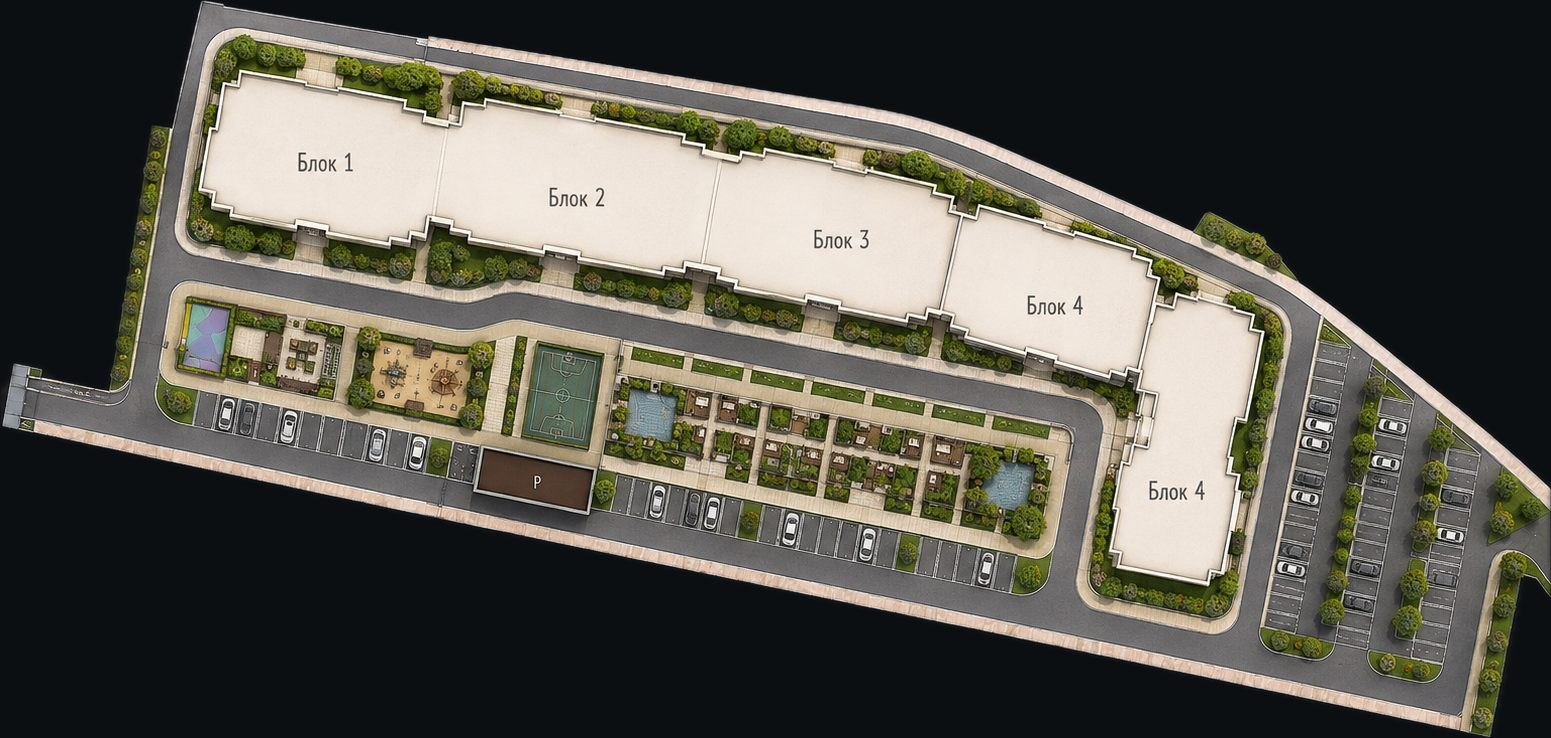
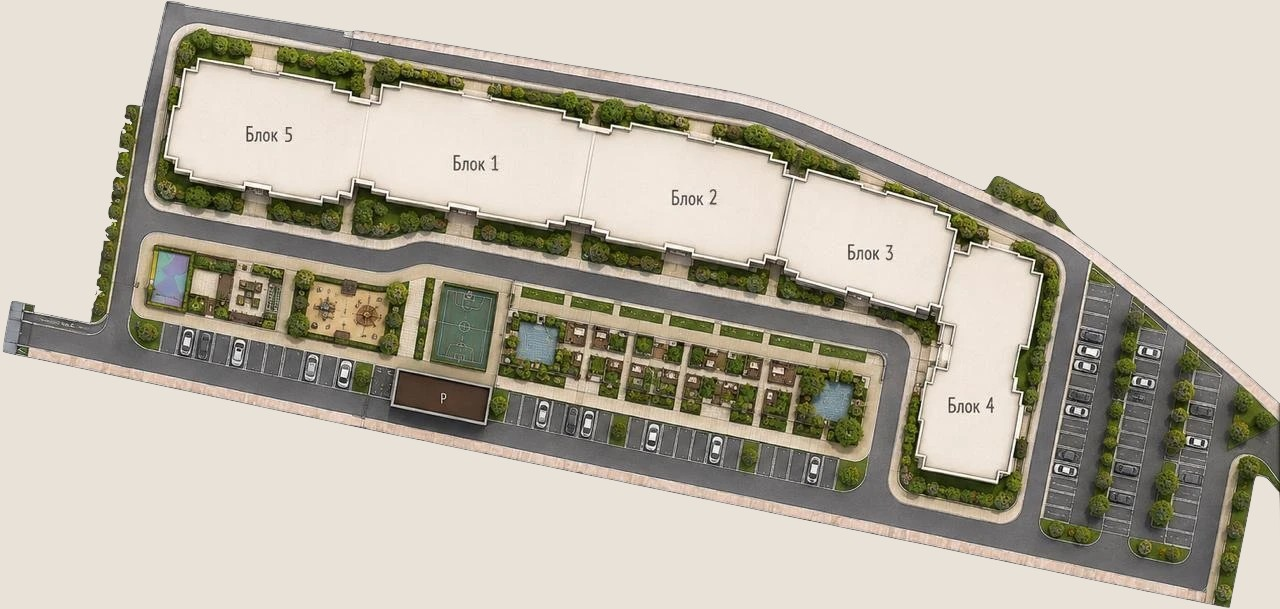
Imperial site plan: new blocks 1–5 image with transparent background
The template now points to imperial.webp (transparent, sits on the beige
card). imperial.jpg is kept as the same image flattened on the card
colour, so site plans already saved in browsers pick up the new plan.

diff --git a/src/config/templateAssets.ts b/src/config/templateAssets.ts
@@ -15,8 +15,8 @@ export const SITEPLAN_TEMPLATES: AssetTemplate[] = [
   {
     id: 'imperial-siteplan',
     project: 'imperial',
-    label: 'Империал — генплан (блоки 1–4)',
-    src: `${BASE}/templates/siteplans/imperial.jpg`,
+    label: 'Империал — генплан (блоки 1–5)',
+    src: `${BASE}/templates/siteplans/imperial.webp`,
   },
   {
     id: 'towers-aerial',
